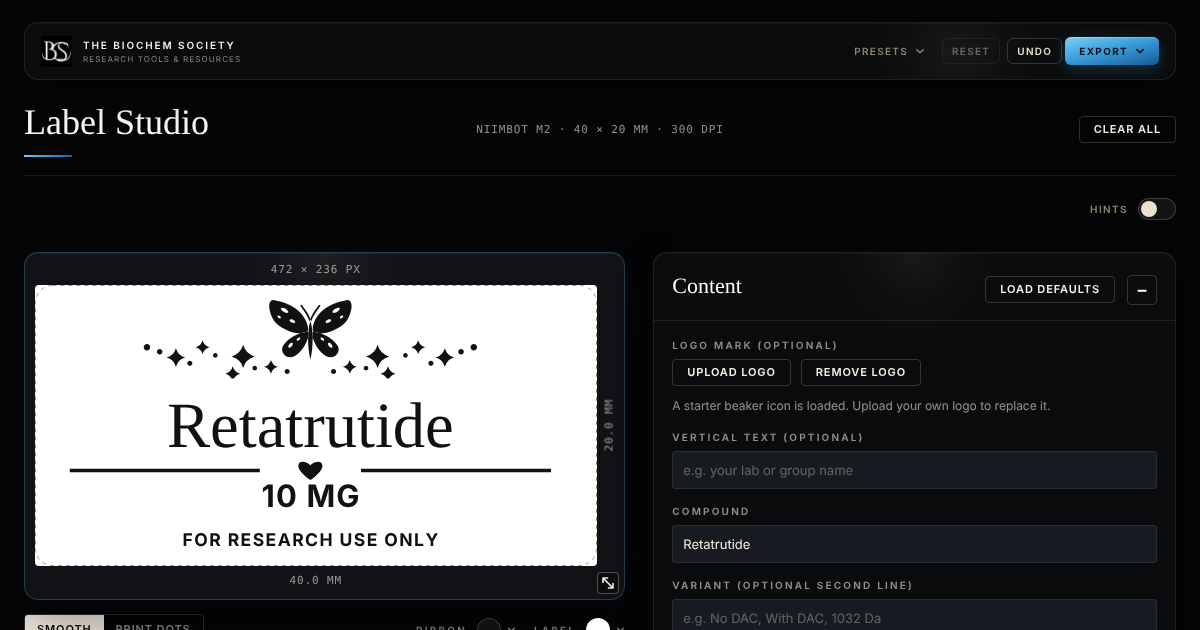
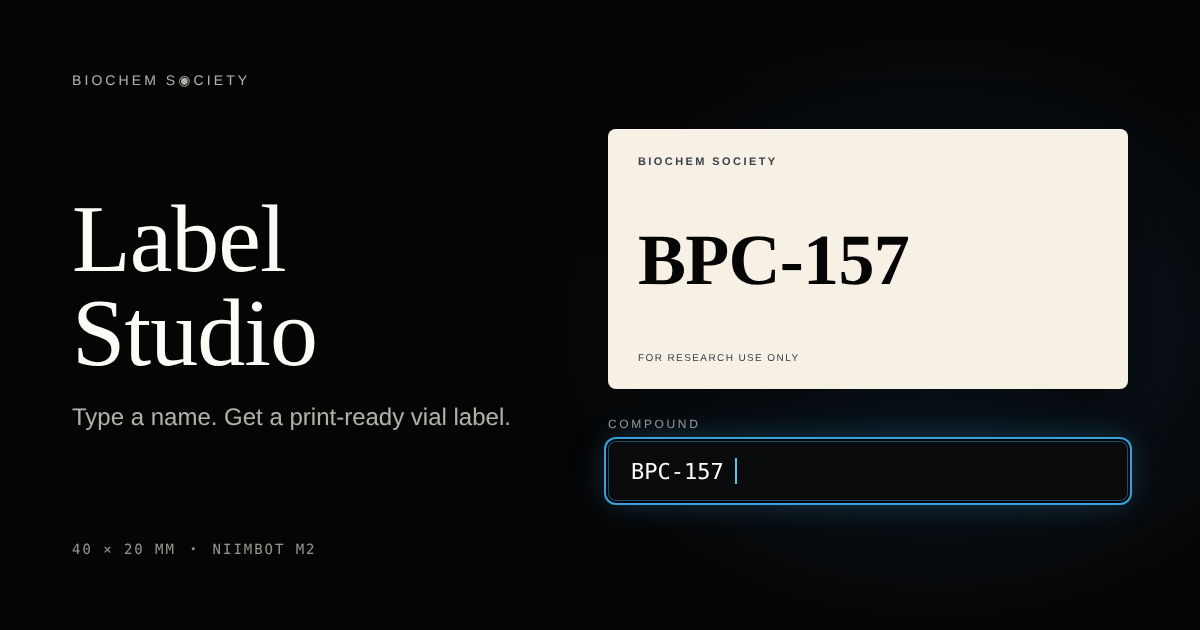
New Label Studio link preview image
Claude-Session: https://claude.ai/code/session_01Vmdm3N7ttsZKk865mqGJS2

diff --git a/label-studio.html b/label-studio.html
@@ -16,13 +16,13 @@
 <meta property="og:title" content="BCS Label Studio | Free Peptide Vial Label Maker for Niimbot M2">
 <meta property="og:description" content="Free peptide label maker for the Niimbot M2. Design 40 x 20 mm research vial labels with ready-made presets, graphics and fonts, then export a print-ready 300 dpi PNG. By The BioChem Society.">
 <meta property="og:url" content="https://thebiochemsociety.vercel.app/label-studio">
-<meta property="og:image" content="https://thebiochemsociety.vercel.app/assets/label-studio/label-studio-preview.png">
+<meta property="og:image" content="https://thebiochemsociety.vercel.app/assets/label-studio/label-studio-preview.png?v=2">
 <meta property="og:image:alt" content="BCS Label Studio designing a 40 x 20 mm peptide vial label for the Niimbot M2">
 <meta name="twitter:card" content="summary_large_image">
 <meta name="twitter:title" content="BCS Label Studio | Free Peptide Vial Label Maker for Niimbot M2">
 <meta name="twitter:description" content="Free peptide label maker for the Niimbot M2. Design 40 x 20 mm research vial labels with ready-made presets, graphics and fonts, then export a print-ready 300 dpi PNG. By The BioChem Society.">
-<meta name="twitter:image" content="https://thebiochemsociety.vercel.app/assets/label-studio/label-studio-preview.png">
-<script type="application/ld+json">{"@context": "https://schema.org", "@type": "WebApplication", "name": "BCS Label Studio", "alternateName": ["Vial Label Studio", "BCS Peptide Label Maker"], "url": "https://thebiochemsociety.vercel.app/label-studio", "description": "Free peptide label maker for the Niimbot M2. Design 40 x 20 mm research vial labels with ready-made presets, graphics and fonts, then export a print-ready 300 dpi PNG. By The BioChem Society.", "applicationCategory": "DesignApplication", "operatingSystem": "Any (runs in your web browser)", "browserRequirements": "Requires JavaScript", "offers": {"@type": "Offer", "price": "0", "priceCurrency": "USD"}, "image": "https://thebiochemsociety.vercel.app/assets/label-studio/label-studio-preview.png", "inLanguage": "en", "keywords": "peptide labels, peptide label design, peptide vial labels, Niimbot M2 labels, 40x20mm label template, research vial label maker", "creator": {"@type": "Organization", "name": "The BioChem Society", "url": "https://thebiochemsociety.vercel.app/", "sameAs": ["https://discord.gg/sR7ty2Z6h9"]}, "featureList": ["Peptide vial label presets", "Custom text, fonts and graphics", "40 x 20 mm Niimbot M2 label size", "300 dpi PNG export", "Print-ready one-colour output"]}</script>
+<meta name="twitter:image" content="https://thebiochemsociety.vercel.app/assets/label-studio/label-studio-preview.png?v=2">
+<script type="application/ld+json">{"@context": "https://schema.org", "@type": "WebApplication", "name": "BCS Label Studio", "alternateName": ["Vial Label Studio", "BCS Peptide Label Maker"], "url": "https://thebiochemsociety.vercel.app/label-studio", "description": "Free peptide label maker for the Niimbot M2. Design 40 x 20 mm research vial labels with ready-made presets, graphics and fonts, then export a print-ready 300 dpi PNG. By The BioChem Society.", "applicationCategory": "DesignApplication", "operatingSystem": "Any (runs in your web browser)", "browserRequirements": "Requires JavaScript", "offers": {"@type": "Offer", "price": "0", "priceCurrency": "USD"}, "image": "https://thebiochemsociety.vercel.app/assets/label-studio/label-studio-preview.png?v=2", "inLanguage": "en", "keywords": "peptide labels, peptide label design, peptide vial labels, Niimbot M2 labels, 40x20mm label template, research vial label maker", "creator": {"@type": "Organization", "name": "The BioChem Society", "url": "https://thebiochemsociety.vercel.app/", "sameAs": ["https://discord.gg/sR7ty2Z6h9"]}, "featureList": ["Peptide vial label presets", "Custom text, fonts and graphics", "40 x 20 mm Niimbot M2 label size", "300 dpi PNG export", "Print-ready one-colour output"]}</script>
 <meta name="color-scheme" content="dark">
 <meta name="theme-color" content="#050506">
 <link rel="preconnect" href="https://fonts.googleapis.com">
